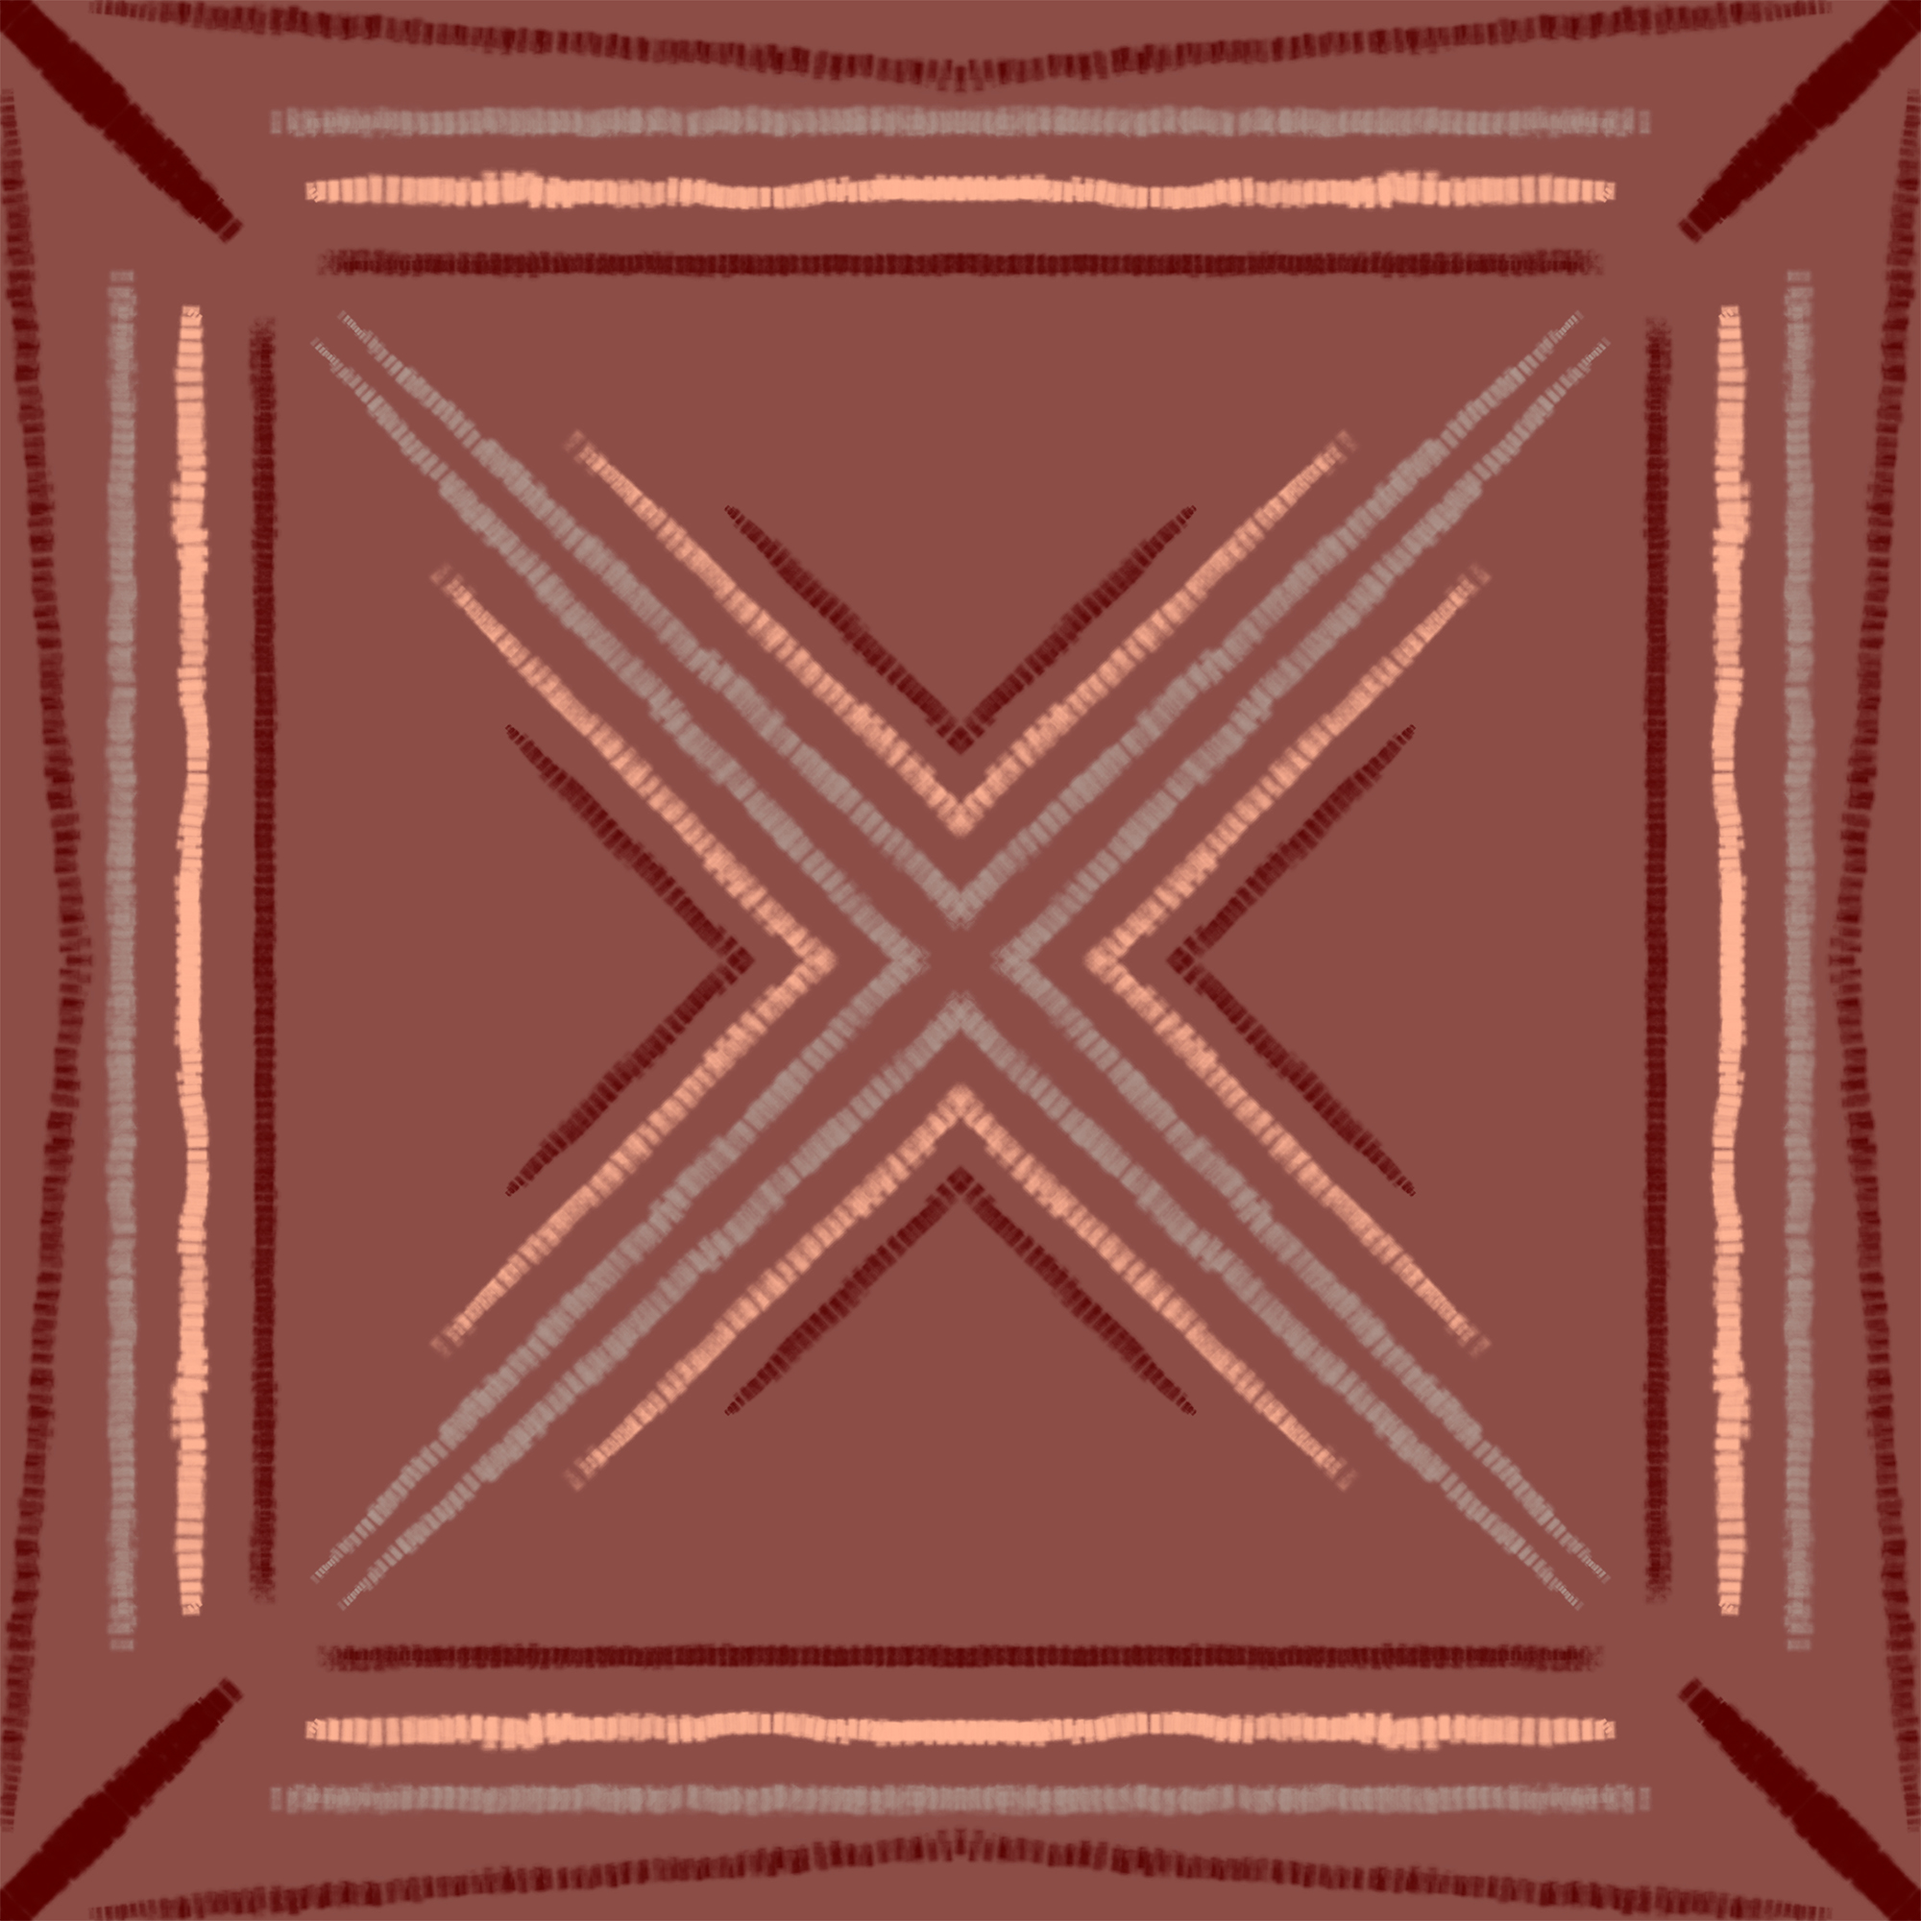
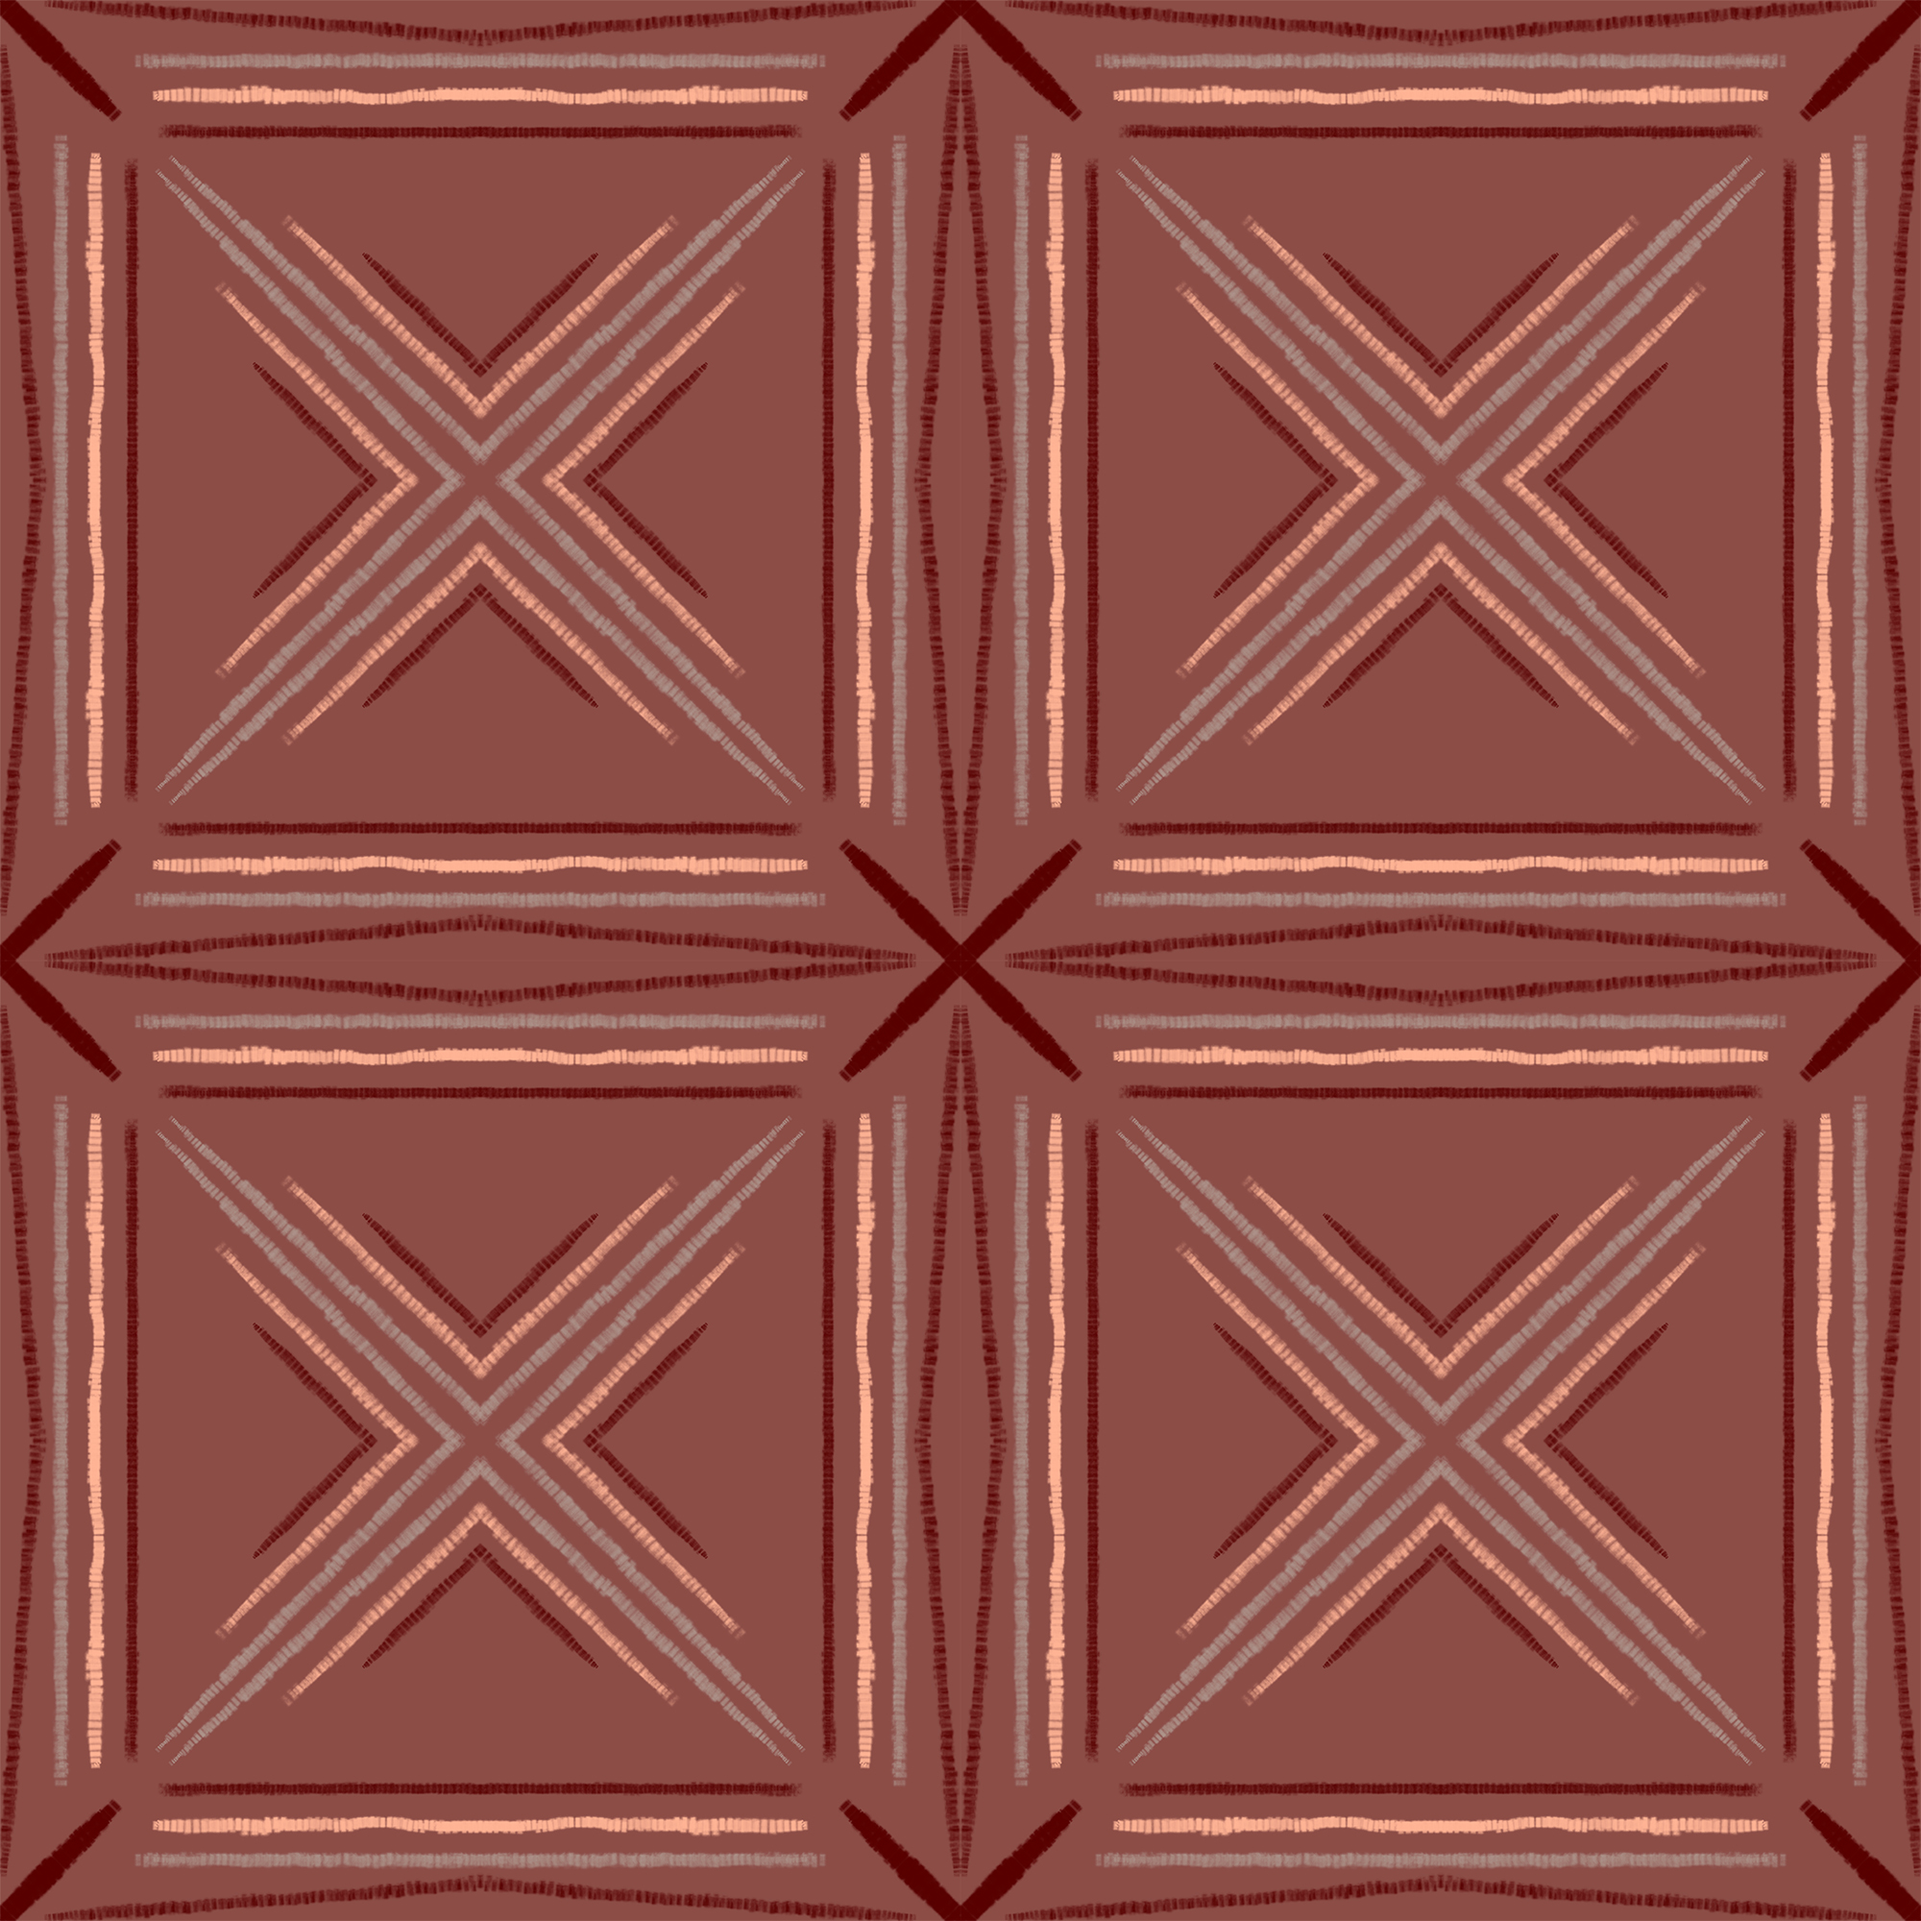
Added Prints

diff --git a/print-studio.html b/print-studio.html
@@ -82,6 +82,12 @@
             <figcaption class="cap"><b>P-13</b> — Floral Tile ·  cm</figcaption>
           </figure>
     <figure class="fig s4 reveal" data-cursor="View" style="--d:160ms"
+             data-colourways="Muted Autumn|Vintage Pink|Muted Purple|Pastel Delight|Aqua Pastel|Colourful"
+             data-colourways-src="assets/img/Print-archive-19A.jpg|assets/img/Print-archive-19B.jpg|assets/img/Print-archive-19C.jpg|assets/img/Print-archive-19D.jpg|assets/img/Print-archive-19E.jpg|assets/img/Print-archive-19F.jpg">
+             <div class="media"><img src="assets/img/Print-archive-19A.jpg" alt="Print 19" loading="lazy" decoding="async"></div>
+            <figcaption class="cap"><b>P-19</b> — Graphic Floral ·  30cm X 30cm</figcaption>
+          </figure>      
+    <figure class="fig s4 reveal" data-cursor="View" style="--d:160ms"
              data-colourways="Summer|Pastel Spring"
              data-colourways-src="assets/img/Print-archive-18A.jpg|assets/img/Print-archive-18B.jpg">
              <div class="media"><img src="assets/img/Print-archive-18A.jpg" alt="Print 18" loading="lazy" decoding="async"></div>
